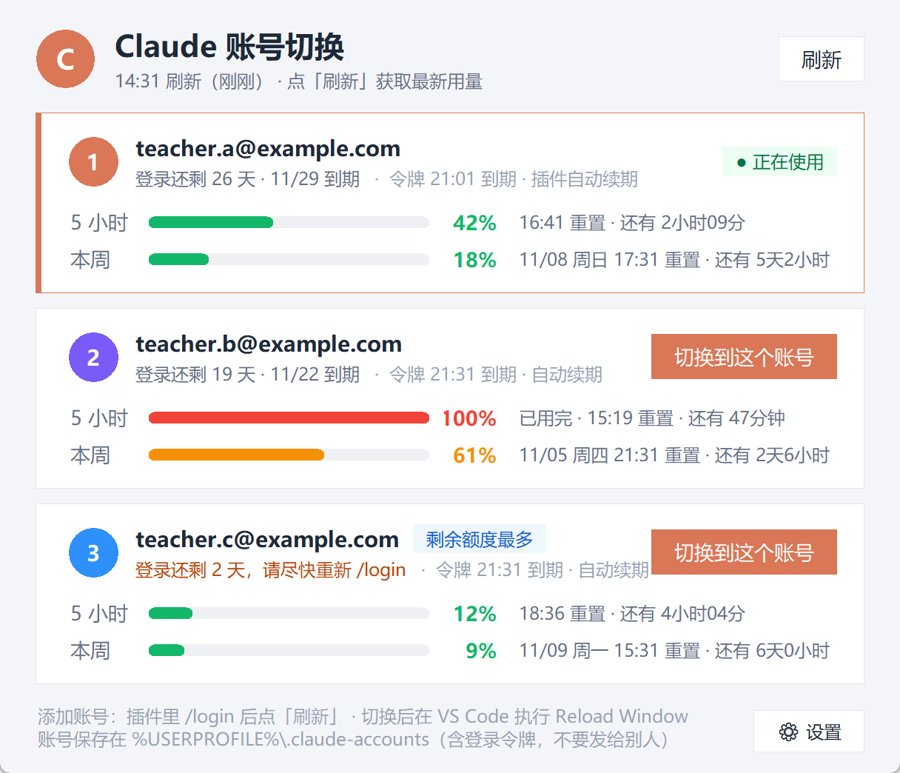
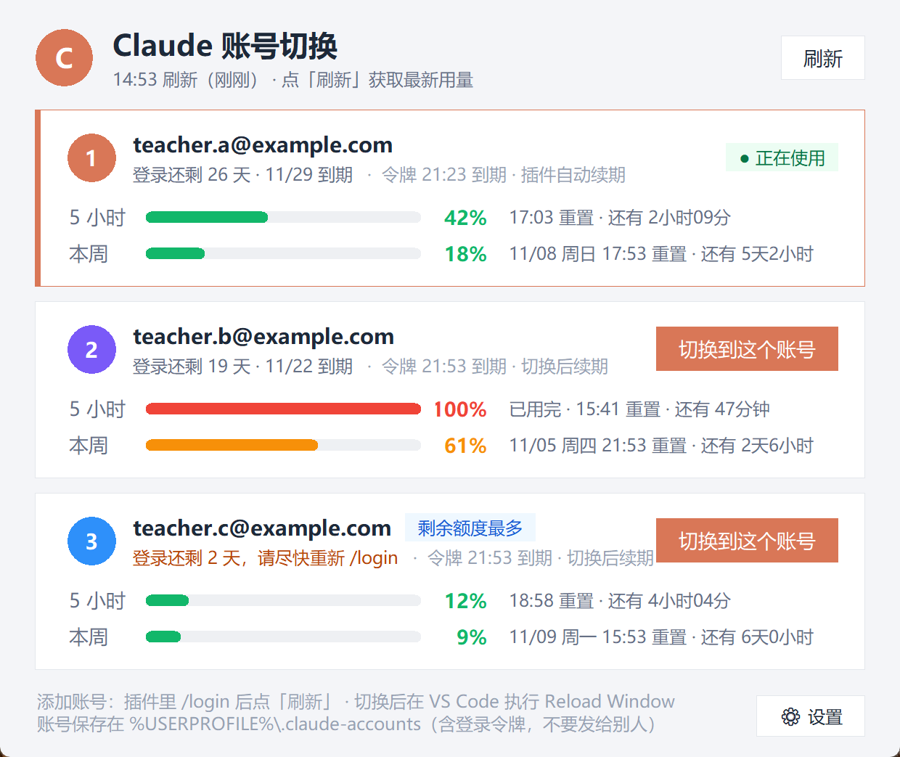
不再刷新令牌，避免把开着的 Claude Code 会话踢下线
刷新令牌是一次性的：工具替没在用的账号换新令牌后，还开着的会话手里那份作废，
出现「OAuth session expired and could not be refreshed」并要求重新登录。

- 去掉 refresh_profile，令牌只由 Claude Code 自己续期
- 没在用的账号令牌过期后显示上次的数据，提示「切换到这个账号后插件会自动续期」
- 切换提示和说明改为「每个 VS Code 窗口都要 Reload Window」
- README 补充条款风险说明

diff --git a/claude_switch.py b/claude_switch.py
@@ -7,7 +7,7 @@
 MCP 登录（mcpOAuth）和其他设置不动，所有账号共用。
 
 用量：向 api.anthropic.com/api/oauth/usage 查询（和 Claude Code 里 /usage 同一个接口），
-得到 5 小时额度、本周额度和各自的重置时间。非当前账号的令牌过期时会自动续期并存回。
+得到 5 小时额度、本周额度和各自的重置时间。令牌只由 Claude Code 自己续期，本工具从不刷新令牌。
 """
 
 import json
@@ -28,8 +28,6 @@ USAGE_CACHE = STORE / "usage-cache.json"
 SETTINGS = STORE / "settings.json"
 
 USAGE_URL = "https://api.anthropic.com/api/oauth/usage"
-TOKEN_URL = "https://platform.claude.com/v1/oauth/token"
-CLIENT_ID = "9d1c250a-e61b-44d9-88ed-5944d1962f5e"  # Claude Code 的公开 client id
 
 
 def load(path):
@@ -98,23 +96,6 @@ def http_json(url, token=None, body=None):
         return json.load(r)
 
 
-def refresh_profile(path, profile):
-    """非当前账号的令牌过期了：用 refresh token 换新令牌，立即存回档案。"""
-    oauth = profile["claudeAiOauth"]
-    r = http_json(TOKEN_URL, body={
-        "grant_type": "refresh_token",
-        "refresh_token": oauth["refreshToken"],
-        "client_id": CLIENT_ID,
-        "scope": " ".join(oauth.get("scopes") or []),
-    })
-    oauth["accessToken"] = r["access_token"]
-    oauth["refreshToken"] = r.get("refresh_token") or oauth["refreshToken"]
-    oauth["expiresAt"] = int(time.time() * 1000) + int(r["expires_in"]) * 1000
-    if r.get("refresh_token_expires_in"):
-        oauth["refreshTokenExpiresAt"] = int(time.time() * 1000) + int(r["refresh_token_expires_in"]) * 1000
-    dump(path, profile)
-
-
 def cached_usage(profile):
     try:
         cache = load(CONF).get("cachedUsageUtilization") or {}
@@ -154,10 +135,14 @@ def last_usage(email, profile, is_current):
 
 
 def get_usage(path, is_current):
-    """返回 (用量 dict 或 None, 说明 或 None, 本次是否自动续期了令牌)。
+    """返回 (用量 dict 或 None, 说明 或 None)。
 
-    说明是 {"code": invalid|rate|http|error|wait, "arg": ..., "stale": 时间戳|"cache"|None}，
+    说明是 {"code": invalid|rate|http|error|wait|expired, "arg": ..., "stale": 时间戳|"cache"|None}，
     由界面按语言翻译；stale 不为 None 表示显示的是以前的数据。
+
+    本工具从不用刷新令牌换新令牌：刷新令牌是一次性的，换一次旧的就作废，
+    还开着的 Claude Code 会话手里的那份会失效，出现「OAuth session expired」要求重新登录。
+    访问令牌过期了就显示上次的数据，等切换到这个账号后由 Claude Code 自己续期。
     """
     if is_current:
         email, oauth, account = current()
@@ -166,25 +151,20 @@ def get_usage(path, is_current):
         profile = load(path)
         oauth = profile["claudeAiOauth"]
     email = path.stem
-    refreshed = False
 
     def fallback(code, arg=None):
         usage, stale = last_usage(email, profile, is_current)
-        return usage, {"code": code, "arg": arg, "stale": stale if usage else None}, refreshed
+        return usage, {"code": code, "arg": arg, "stale": stale if usage else None}
 
     try:
         if oauth["expiresAt"] < time.time() * 1000 + 60_000:
-            if is_current:  # 当前账号由 Claude Code 自己续期，这里不碰，免得把它的令牌顶掉
-                return fallback("wait")
-            refresh_profile(path, profile)
-            refreshed = True
-            oauth = profile["claudeAiOauth"]
+            return fallback("wait" if is_current else "expired")
         usage = http_json(USAGE_URL, token=oauth["accessToken"])
         remember_usage(email, usage)
-        return usage, None, refreshed
+        return usage, None
     except urllib.error.HTTPError as e:
         if e.code in (400, 401, 403):
-            return None, {"code": "invalid", "arg": None, "stale": None}, refreshed
+            return None, {"code": "invalid", "arg": None, "stale": None}
         if e.code == 429:
             return fallback("rate")
         return fallback("http", e.code)

diff --git a/i18n.py b/i18n.py
@@ -15,7 +15,7 @@ STRINGS = {
         "ago": "{x}前",
         "load_failed": "查询失败：{e}",
         "shortcut_created": "已在桌面创建「{name}」快捷方式，以后双击它就能打开。",
-        "switched": "已切换到 {email}。\n在 VS Code 按 Ctrl+Shift+P → Reload Window 后生效。",
+        "switched": "已切换到 {email}。\n每个 VS Code 窗口按 Ctrl+Shift+P → Reload Window 后生效。",
         "switch_failed": "切换失败：{e}",
         "toast_countdown": "{n} 秒后关闭",
         "best": "剩余额度最多",
@@ -35,8 +35,7 @@ STRINGS = {
         "login_soon": "登录还剩 {n} 天，请尽快重新 /login",
         "login_ok": "登录还剩 {n} 天 · {d} 到期",
         "renew_plugin": "插件自动续期",
-        "renew_auto": "自动续期",
-        "token_refreshed": "令牌刚刚已续期 · {t} 到期",
+        "renew_auto": "切换后续期",
         "token_expired": "令牌已过期 · {who}",
         "token_ok": "令牌 {t} 到期 · {who}",
         "note_invalid": "登录已失效，请在 Claude 插件里 /login 这个账号后点「刷新」",
@@ -44,6 +43,7 @@ STRINGS = {
         "note_http": "查询失败（HTTP {arg}）",
         "note_error": "查询失败（{arg}）",
         "note_wait": "令牌等插件续期",
+        "note_expired": "令牌已过期，切换到这个账号后插件会自动续期",
         "note_stale": "{note}\n下面显示的是 {when} 的数据",
         "note_stale_cache": "{note}\n下面显示的是上次缓存的数据",
         "empty": "还没有保存任何账号。\n先在 Claude 插件里 /login，再点「刷新」。",
@@ -77,7 +77,7 @@ STRINGS = {
         "ago": "{x}前",
         "load_failed": "取得に失敗しました：{e}",
         "shortcut_created": "デスクトップに「{name}」ショートカットを作成しました。次回からはこちらから起動できます。",
-        "switched": "{email} に切り替えました。\nVS Code で Ctrl+Shift+P → Reload Window を実行すると反映されます。",
+        "switched": "{email} に切り替えました。\n各 VS Code ウィンドウで Ctrl+Shift+P → Reload Window を実行すると反映されます。",
         "switch_failed": "切り替えに失敗しました：{e}",
         "toast_countdown": "{n} 秒後に閉じます",
         "best": "残り最多",
@@ -97,8 +97,7 @@ STRINGS = {
         "login_soon": "ログイン残り {n} 日。早めに /login し直してください",
         "login_ok": "ログイン残り {n} 日 · {d} まで",
         "renew_plugin": "拡張機能が自動更新",
-        "renew_auto": "自動更新",
-        "token_refreshed": "トークンを更新しました · {t} まで",
+        "renew_auto": "切替後に更新",
         "token_expired": "トークン期限切れ · {who}",
         "token_ok": "トークン {t} まで · {who}",
         "note_invalid": "ログインが無効です。Claude 拡張機能でこのアカウントに /login してから「更新」を押してください",
@@ -106,6 +105,7 @@ STRINGS = {
         "note_http": "取得に失敗しました（HTTP {arg}）",
         "note_error": "取得に失敗しました（{arg}）",
         "note_wait": "拡張機能によるトークン更新待ち",
+        "note_expired": "トークンの期限切れ。このアカウントに切り替えると拡張機能が自動更新します",
         "note_stale": "{note}\n{when} 時点のデータを表示しています",
         "note_stale_cache": "{note}\n前回キャッシュのデータを表示しています",
         "empty": "保存済みのアカウントがありません。\nClaude 拡張機能で /login してから「更新」を押してください。",

diff --git a/README.md b/README.md
@@ -10,7 +10,7 @@
 
 - **一键切换**：点「切换到这个账号」，再在 VS Code 里执行 `Developer: Reload Window` 就生效。
 - **用量一目了然**：每个账号的 5 小时 / 本周用量进度条、重置时间和剩余时长；自动标出「剩余额度最多」的账号。
-- **登录状态**：登录（约 4 周有效）还剩几天，快到期时变色提醒；短期令牌（约 8 小时）自动续期。
+- **登录状态**：登录（约 4 周有效）还剩几天，快到期时变色提醒；短期令牌（约 8 小时）只由 Claude Code 自己续期，本工具从不刷新令牌。
 - **手动刷新**：打开窗口时查询一次，之后点「刷新」才重新查询，不在后台反复请求；标题下显示上次刷新时间。查询失败或被限流时显示上次的数据。
 - **设置**：右下角「⚙ 设置」，可切换界面语言（中文 / 日本語，立即生效）；「关于」里有版本号、项目地址和「检查更新」。
 - **只开一个窗口**：已经开着时再双击，会把原窗口调到最前面。
@@ -37,7 +37,11 @@ Claude Code 的登录信息存在两个文件里：
 
 本工具把每个账号的这两段存到 `%USERPROFILE%\.claude-accounts\profiles\<邮箱>.json`，切换时写回去，其他设置（MCP 登录、项目配置等）都不动。
 
-用量来自 Claude Code `/usage` 用的同一个接口 `https://api.anthropic.com/api/oauth/usage`。没在用的账号令牌过期时，用刷新令牌换新令牌并存回；正在用的账号交给 Claude Code 自己续期，避免把它的令牌顶掉。
+用量来自 Claude Code `/usage` 用的同一个接口 `https://api.anthropic.com/api/oauth/usage`，只用还没过期的访问令牌查询。
+
+本工具**从不用刷新令牌换新令牌**：刷新令牌是一次性的，换一次旧的就作废，还开着的 Claude Code 会话手里那份会失效，出现 `OAuth session expired and could not be refreshed` 并要求重新登录（v1.0.0 的做法，v1.1.0 已去掉）。没在用的账号令牌过期后显示上次查到的数据，切换过去后由 Claude Code 自己续期。
+
+切换账号后，**每个**开着 Claude Code 的 VS Code 窗口都要执行一次 `Developer: Reload Window`（或者重启 VS Code），否则旧会话还拿着上一个账号的令牌。
 
 ## 从源码运行 / 打包
 
@@ -52,7 +56,7 @@ python make_icon.py                    # 改图标时才需要（要 Pillow）
 
 | 文件 | 说明 |
 |---|---|
-| `claude_switch.py` | 核心逻辑：保存 / 切换账号、查询用量、续期令牌 |
+| `claude_switch.py` | 核心逻辑：保存 / 切换账号、查询用量 |
 | `claude_switch_gui.pyw` | tkinter 界面（主窗口 + 设置窗口） |
 | `i18n.py` | 界面文字（中文 / 日本語），新增文字两种语言都要加 |
 | `build.py` | PyInstaller 单文件打包 + 压缩包 |
@@ -63,7 +67,8 @@ python make_icon.py                    # 改图标时才需要（要 Pillow）
 
 - `%USERPROFILE%\.claude-accounts` 里是你的登录令牌，**不要发给别人，也不要上传**。
 - 每人只保存自己的账号；共用账号违反 Anthropic 的使用条款。
-- 用量查询和令牌续期用的是 Claude Code 内部接口，没有公开文档，Claude Code 更新后可能失效。
+- 用量查询用的是 Claude Code 内部接口，没有公开文档，Claude Code 更新后可能失效。
+- 《Anthropic 消费者条款》第 3 条禁止用脚本等自动化方式访问服务、禁止绕过系统的保护措施；用多个账号轮流规避用量上限是否算违规，Anthropic 没有明确说明。请自行判断风险，额度不够时优先考虑升级套餐。
 - 只支持 Windows。macOS 上 Claude Code 把令牌存在钥匙串里，本工具读不到。
 
 ## 许可证
